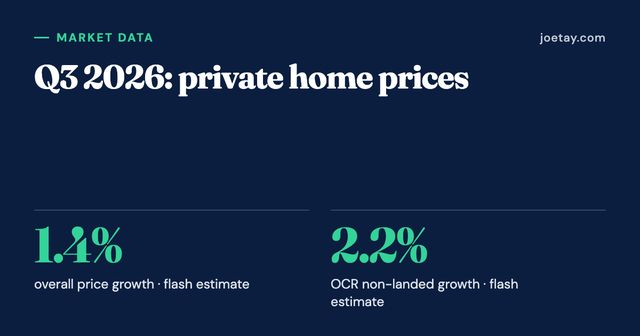
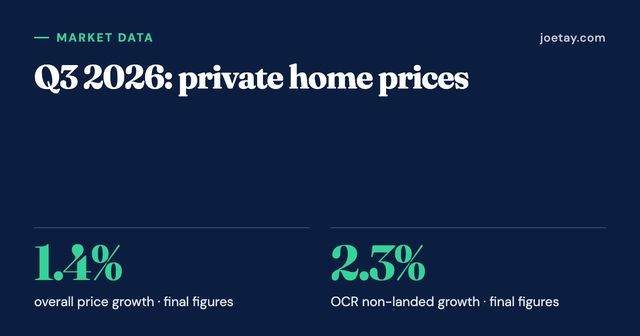
Refresh Q3 2026 URA guide with final figures (#487)

Changed region(s): [[0.5, 0.6548, 0.875, 0.9226], [0.0312, 0.6548, 0.4062, 0.9226]]

diff --git a/insights/q3-2026-ura-private-home-prices.html b/insights/q3-2026-ura-private-home-prices.html
@@ -4,7 +4,7 @@
 <meta charset="UTF-8">
 <meta name="viewport" content="width=device-width, initial-scale=1.0, viewport-fit=cover">
 <title>Q3 2026 URA Prices: Buyer and Seller Guide | PropertySG</title>
-<meta name="description" content="URA Q3 2026 flash estimates explained: private home prices, HDB-to-condo upgrade budgets and what condo sellers should check before setting an asking price.">
+<meta name="description" content="URA Q3 2026 final figures explained: private home prices, HDB-to-condo upgrade budgets and what condo sellers should check before setting an asking price.">
 <meta name="robots" content="index,follow,max-image-preview:large,max-snippet:-1,max-video-preview:-1">
 <meta name="theme-color" content="#0b1e3f">
 <link rel="manifest" href="/site.webmanifest">
@@ -14,21 +14,21 @@
 <meta property="og:type" content="article">
 <meta property="og:site_name" content="PropertySG">
 <meta property="og:title" content="Q3 2026 URA Prices: Buyer and Seller Guide">
-<meta property="og:description" content="URA Q3 2026 flash estimates explained: private home prices, HDB-to-condo upgrade budgets and what condo sellers should check before setting an asking price.">
+<meta property="og:description" content="URA Q3 2026 final figures explained: private home prices, HDB-to-condo upgrade budgets and what condo sellers should check before setting an asking price.">
 <meta property="og:url" content="https://joetay.com/insights/q3-2026-ura-private-home-prices.html">
 <meta property="og:locale" content="en_SG">
 <meta property="og:image" content="https://joetay.com/img/insights/q3-2026-ura-private-home-prices.jpg">
 <meta property="og:image:width" content="1200">
 <meta property="og:image:height" content="630">
-<meta property="og:image:alt" content="Q3 2026: private home prices: 1.4% overall price growth · flash estimate; 2.2% OCR non-landed growth · flash estimate.">
+<meta property="og:image:alt" content="Q3 2026: private home prices: 1.4% overall price growth · final figures; 2.3% OCR non-landed growth · final figures.">
 <meta name="twitter:card" content="summary_large_image">
 <meta name="twitter:title" content="Q3 2026 URA Prices: Buyer and Seller Guide">
-<meta name="twitter:description" content="URA Q3 2026 flash estimates explained: private home prices, HDB-to-condo upgrade budgets and what condo sellers should check before setting an asking price.">
+<meta name="twitter:description" content="URA Q3 2026 final figures explained: private home prices, HDB-to-condo upgrade budgets and what condo sellers should check before setting an asking price.">
 <meta name="twitter:image" content="https://joetay.com/img/insights/q3-2026-ura-private-home-prices.jpg">
-<meta name="twitter:image:alt" content="Q3 2026: private home prices: 1.4% overall price growth · flash estimate; 2.2% OCR non-landed growth · flash estimate.">
+<meta name="twitter:image:alt" content="Q3 2026: private home prices: 1.4% overall price growth · final figures; 2.3% OCR non-landed growth · final figures.">
 <meta property="article:author" content="Joe Tay">
 <meta property="article:published_time" content="2026-10-03">
-<meta property="article:modified_time" content="2026-10-03">
+<meta property="article:modified_time" content="2026-10-28">
 <meta property="article:section" content="Market data">
 
 
@@ -48,9 +48,9 @@
   "@context": "https://schema.org",
   "@type": "Article",
   "headline": "Q3 2026 URA Prices: Buyer and Seller Guide",
-  "description": "URA Q3 2026 flash estimates explained: private home prices, HDB-to-condo upgrade budgets and what condo sellers should check before setting an asking price.",
+  "description": "URA Q3 2026 final figures explained: private home prices, HDB-to-condo upgrade budgets and what condo sellers should check before setting an asking price.",
   "datePublished": "2026-10-03",
-  "dateModified": "2026-10-03",
+  "dateModified": "2026-10-28",
   "inLanguage": "en-SG",
   "author": {
     "@type": "Person",
@@ -112,11 +112,11 @@ html.jt-theme-dark .jt-sh .jt-mh-toggle{color:#fff}
 </header>
 <main id="main" tabindex="-1" class="blog-main"><article class="article">
 <div class="article-breadcrumb" role="navigation" aria-label="Breadcrumb"><a href="/">Home</a><span class="sep">›</span><a href="/insights/">Insights</a><span class="sep">›</span><span aria-current="page">Q3 2026 private home prices</span></div>
-<header class="article-header"><div class="article-meta-top"><span class="cat">Market data</span><span class="dot" aria-hidden="true">·</span><span>5 min read</span><span class="dot" aria-hidden="true">·</span><time datetime="2026-10-03">Oct 3, 2026</time></div>
+<header class="article-header"><div class="article-meta-top"><span class="cat">Market data</span><span class="dot" aria-hidden="true">·</span><span>5 min read</span><span class="dot" aria-hidden="true">·</span><time datetime="2026-10-03">Oct 3, 2026</time><span class="dot" aria-hidden="true">·</span><time datetime="2026-10-28">Updated Oct 28, 2026</time></div>
 <h1 id="article-title">Q3 2026 private home prices: what HDB upgraders and condo sellers should know</h1><p class="article-lede">A rising market index is a starting point for a conversation about your next move. Your actual decision needs comparable transactions, a realistic sale budget and money available on the right dates.</p>
 <div class="article-byline"><picture><source type="image/webp" srcset="/joe-tay-propertysg-advisor-400.webp"><img src="/joe-tay-propertysg-advisor-400.jpg" alt="Joe Tay" width="40" height="40" loading="lazy" decoding="async"></picture><div>By <strong><a href="/about-joe/">Joe Tay</a></strong> · District Director, ERA Realty Network · CEA R009618D</div></div></header>
 
-<figure class="article-cover" data-jt-article-cover><picture><source type="image/webp" srcset="/img/insights/q3-2026-ura-private-home-prices-640.webp 640w, /img/insights/q3-2026-ura-private-home-prices.webp 1200w" sizes="(max-width: 780px) 100vw, 732px"><img src="/img/insights/q3-2026-ura-private-home-prices.jpg" srcset="/img/insights/q3-2026-ura-private-home-prices-640.jpg 640w, /img/insights/q3-2026-ura-private-home-prices.jpg 1200w" sizes="(max-width: 780px) 100vw, 732px" width="1200" height="630" alt="Q3 2026: private home prices: 1.4% overall price growth · flash estimate; 2.2% OCR non-landed growth · flash estimate." fetchpriority="high" decoding="async"></picture></figure>
+<figure class="article-cover" data-jt-article-cover><picture><source type="image/webp" srcset="/img/insights/q3-2026-ura-private-home-prices-640.webp 640w, /img/insights/q3-2026-ura-private-home-prices.webp 1200w" sizes="(max-width: 780px) 100vw, 732px"><img src="/img/insights/q3-2026-ura-private-home-prices.jpg" srcset="/img/insights/q3-2026-ura-private-home-prices-640.jpg 640w, /img/insights/q3-2026-ura-private-home-prices.jpg 1200w" sizes="(max-width: 780px) 100vw, 732px" width="1200" height="630" alt="Q3 2026: private home prices: 1.4% overall price growth · final figures; 2.3% OCR non-landed growth · final figures." fetchpriority="high" decoding="async"></picture></figure>
 <section class="article-body" aria-labelledby="article-title">
 <nav class="article-toc" data-jt-article-toc aria-labelledby="article-toc-title">
   <p class="article-toc-title" id="article-toc-title">On this page</p>
@@ -129,18 +129,18 @@ html.jt-theme-dark .jt-sh .jt-mh-toggle{color:#fff}
     <li><a href="#sources">Sources and scope</a></li>
   </ol>
 </nav>
-<p class="callout"><strong>Flash estimates, checked 3 October 2026.</strong> These preliminary figures were released on 1 October. URA schedules its full Q3 statistics for 23 October 2026; the numbers may be revised.</p>
+<p class="callout"><strong>Final Q3 figures, checked 28 October 2026.</strong> Updated using URA's full-quarter statistics released on 23 October 2026. These replace the 1 October flash estimates used in the original article.</p>
 <h2 id="quarter-figures">What changed in Q3 2026?</h2>
-<p>URA estimates that overall private home prices increased <strong>1.4%</strong> quarter on quarter, compared with <strong>0.5%</strong> in Q2. The table separates landed homes from non-landed homes and the three non-landed regions.</p>
-<div class="table-wrap"><table><caption>Private residential price-index changes, quarter on quarter</caption><thead><tr><th scope="col">Segment</th><th scope="col">Q2 2026</th><th scope="col">Q3 2026 flash estimate</th></tr></thead><tbody>
+<p>URA's full-quarter figures show that overall private home prices increased <strong>1.4%</strong> quarter on quarter, compared with <strong>0.5%</strong> in Q2. The table separates landed homes from non-landed homes and the three non-landed regions.</p>
+<div class="table-wrap"><table><caption>Private residential price-index changes, quarter on quarter</caption><thead><tr><th scope="col">Segment</th><th scope="col">Q2 2026</th><th scope="col">Q3 2026 final figures</th></tr></thead><tbody>
 <tr><th scope="row">All private homes</th><td>+0.5%</td><td>+1.4%</td></tr>
-<tr><th scope="row">Non-landed private homes</th><td>−0.1%</td><td>+0.9%</td></tr>
-<tr><th scope="row">Core Central Region (CCR), non-landed</th><td>+1.8%</td><td>−0.1%</td></tr>
-<tr><th scope="row">Rest of Central Region (RCR), non-landed</th><td>−1.2%</td><td>+0.2%</td></tr>
-<tr><th scope="row">Outside Central Region (OCR), non-landed</th><td>−0.1%</td><td>+2.2%</td></tr>
-<tr><th scope="row">Landed homes</th><td>+2.5%</td><td>+2.8%</td></tr>
+<tr><th scope="row">Non-landed private homes</th><td>−0.1%</td><td>+1.0%</td></tr>
+<tr><th scope="row">Core Central Region (CCR), non-landed</th><td>+1.8%</td><td>+0.3%</td></tr>
+<tr><th scope="row">Rest of Central Region (RCR), non-landed</th><td>−1.2%</td><td>0.0%</td></tr>
+<tr><th scope="row">Outside Central Region (OCR), non-landed</th><td>−0.1%</td><td>+2.3%</td></tr>
+<tr><th scope="row">Landed homes</th><td>+2.5%</td><td>+2.9%</td></tr>
 </tbody></table></div>
-<p>Source: <a href="https://www.ura.gov.sg/news/media/pr26-69/">URA's 1 October 2026 flash release</a>. Its transaction-volume snapshot covers only up to mid-September. Treat volume comparisons as provisional until the full-quarter release.</p>
+<p>Source: <a href="https://www.ura.gov.sg/news/media/pr26-73/">URA's 23 October 2026 full-quarter release</a>, paragraphs 2–4. Overall growth is unchanged from the flash estimate, but the segment figures have been revised. CCR recorded a small increase and RCR was unchanged; the national headline does not describe every segment.</p>
 <h2 id="meaning-for-sellers">For condo sellers: build a price range from comparable homes</h2>
 <p>The national index cannot tell you what a particular unit will achieve. Two homes in the same development may differ in size, floor, facing, condition and tenancy arrangements. An asking price is also different from a completed transaction.</p>
 <p>Start with recent sales in your development, then widen the comparison to similar nearby projects if there are too few transactions. Compare both total price and price per square foot: a smaller unit can carry a higher psf while costing less overall.</p>
@@ -161,8 +161,8 @@ html.jt-theme-dark .jt-sh .jt-mh-toggle{color:#fff}
 <p><a class="blog-nav-cta" href="https://wa.me/6581881488?text=Hi%20Joe%2C%20I%20read%20your%20Q3%202026%20market%20guide%20and%20would%20like%20to%20discuss%20my%20sale%20or%20upgrade%20plan.">Discuss my sale or upgrade plan with Joe</a></p>
 <p>Start with your property type and the move you are considering. You do not need to send identity documents or account statements for an initial discussion.</p>
 <h2 id="sources">Sources and scope</h2>
-<p>This is original commentary by Joe Tay, with the price figures taken from <a href="https://www.ura.gov.sg/news/media/pr26-69/">URA's Q3 2026 flash estimate</a>. See the <a href="https://www.ura.gov.sg/property-data/data-release-calendar/">URA release calendar</a> for the full statistics. The practical examples are illustrative; this article does not predict an individual property's return.</p>
-<p>Further reading: <a href="https://era-insight.sg/article/R009618D/3q-2026-ura-private-residential-report-prices-continue-growing-despite-quieter-quarter-for-new-home-sales-15113">ERA Research's Q3 2026 commentary</a>. ERA's later caveat snapshot uses a different cutoff from URA's flash release. Its transaction counts are not combined with the figures above.</p>
+<p>This is original commentary by Joe Tay, with the price figures taken from <a href="https://www.ura.gov.sg/news/media/pr26-73/">URA's final Q3 2026 statistics, released 23 October 2026</a>. Reviewed 28 October 2026. The <a href="https://www.ura.gov.sg/news/media/pr26-69/">1 October flash release</a> is retained as historical context, not the source for the updated table. The practical examples are illustrative; this article does not predict an individual property's return.</p>
+<p>Earlier commentary: <a href="https://era-insight.sg/article/R009618D/3q-2026-ura-private-residential-report-prices-continue-growing-despite-quieter-quarter-for-new-home-sales-15113">ERA Research's Q3 2026 flash-estimate commentary</a>. It predates URA's full-quarter release and uses a different transaction-data cutoff. Its transaction counts are not combined with the figures above.</p>
 <aside class="callout" aria-label="Related guides"><strong>Related guides</strong><ul>
 <li><a href="15-month-wait-out-removed-private-owners-hdb.html">15-Month Wait-Out Removed: What Owners Do Now</a></li>
 <li><a href="cheapest-4-room-5-room-hdb-resale-flats.html">Cheapest 4-Room and 5-Room HDB Resale Towns</a></li>

diff --git a/index.html b/index.html
@@ -1640,7 +1640,7 @@ html.jt-theme-dark .jt-pl a{color:#6ee7c1}
         <picture class="jt-hi-img" data-jt-card-cover><source type="image/webp" srcset="/img/insights/q3-2026-ura-private-home-prices-640.webp"><img src="/img/insights/q3-2026-ura-private-home-prices-640.jpg" width="640" height="336" alt="" loading="lazy" decoding="async"></picture>
         <span class="jt-hi-date">Oct 2026</span>
         <strong class="jt-hi-title">Q3 2026 URA Prices: Buyer and Seller Guide</strong>
-        <span class="jt-hi-summary">URA Q3 2026 flash estimates explained: private home prices, HDB-to-condo upgrade budgets and what condo sellers should check before setting an asking price.</span>
+        <span class="jt-hi-summary">URA Q3 2026 final figures explained: private home prices, HDB-to-condo upgrade budgets and what condo sellers should check before setting an asking price.</span>
       </a>
       <a class="jt-hi-card" href="/insights/sell-hdb-first-or-buy-condo-first.html">
         <picture class="jt-hi-img" data-jt-card-cover><source type="image/webp" srcset="/img/insights/sell-hdb-first-or-buy-condo-first-640.webp"><img src="/img/insights/sell-hdb-first-or-buy-condo-first-640.jpg" width="640" height="336" alt="" loading="lazy" decoding="async"></picture>

diff --git a/insights/index.html b/insights/index.html
@@ -279,7 +279,7 @@ html.jt-theme-dark .jt-pl a{color:#6ee7c1}
         <picture class="blog-card-img" data-jt-card-cover><source type="image/webp" srcset="/img/insights/q3-2026-ura-private-home-prices-640.webp"><img src="/img/insights/q3-2026-ura-private-home-prices-640.jpg" width="640" height="336" alt="" loading="lazy" decoding="async"></picture>
         <div class="blog-card-meta"><span class="cat">Market data</span><span class="dot" aria-hidden="true">·</span><span>5 min read</span></div>
         <h2>Q3 2026 private home prices: what upgraders and sellers should know</h2>
-        <p>URA Q3 2026 flash estimates explained: private home prices, HDB-to-condo upgrade budgets and what condo sellers should check before setting an asking price.</p>
+        <p>URA Q3 2026 final figures explained: private home prices, HDB-to-condo upgrade budgets and what condo sellers should check before setting an asking price.</p>
         <span class="read-more">Read the guide <span class="arrow" aria-hidden="true">→</span></span>
       </a>
     </li>
